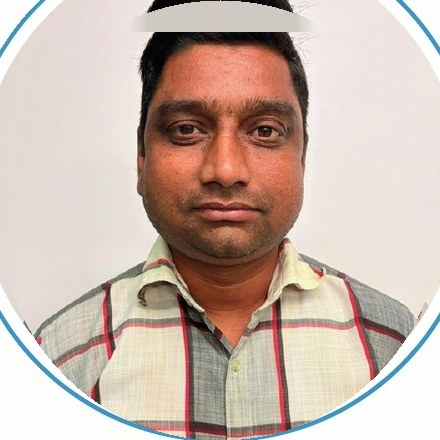
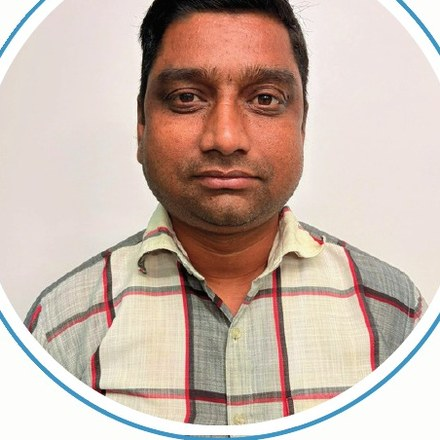
Rebuild Our Team from supplied section: 17-member roster, new headshots, Future Dreams trio moved to /future-dreams

diff --git a/src/components/site/our-team.tsx b/src/components/site/our-team.tsx
@@ -1,4 +1,3 @@
-import { Reveal } from '@/components/site/reveal';
 import team01 from '@/assets/team/team-01.jpg';
 import team02 from '@/assets/team/team-02.jpg';
 import team03 from '@/assets/team/team-03.jpg';
@@ -11,7 +10,6 @@ import team09 from '@/assets/team/team-09.jpg';
 import team10 from '@/assets/team/team-10.jpg';
 import team11 from '@/assets/team/team-11.jpg';
 import team12 from '@/assets/team/team-12.jpg';
-import team13 from '@/assets/team/team-13.jpg';
 import team14 from '@/assets/team/team-14.jpg';
 import team15 from '@/assets/team/team-15.jpg';
 import team16 from '@/assets/team/team-16.jpg';
@@ -37,7 +35,6 @@ const TEAM: TeamMember[] = [
   { name: "Mriganka Sarkar", role: "Sr. Tax Assistant & Accounts", photo: team10 },
   { name: "Sanjoy Sarkar", role: "Office Executive — Systems", photo: team11 },
   { name: "Asim Datta", role: "GST & Accounts Head", photo: team12 },
-  { name: "Ayan Chaudhuri", role: "Cash Manager & Management", photo: team13 },
   { name: "Bibek Das", role: "Accountant", photo: team14 },
   { name: "Chandan Chakrabarty", role: "Accountant", photo: team15 },
   { name: "Anindya Chandra", role: "Office Management & Systems", photo: team16 },
@@ -47,25 +44,29 @@ const TEAM: TeamMember[] = [
 
 export function OurTeamSection() {
   return (
-    <section className="section">
-      <div className="wrap">
-        <ul className="team-grid">
-          {TEAM.map((member, i) => (
-            <li key={member.name} className="team-card">
-              <Reveal delay={(i % 3) * 110}>
-                <div className="team-photo">
-                  <img
-                    src={member.photo}
-                    alt={`Portrait of ${member.name}`}
-                    width={400}
-                    height={400}
-                    loading="lazy"
-                  />
-                </div>
-                <span aria-hidden="true" className="team-rule" />
-                <h2>{member.name}</h2>
-                <p className="team-role">{member.role}</p>
-              </Reveal>
+    <section className="bg-background py-20 sm:py-24">
+      <div className="mx-auto max-w-6xl px-6">
+        <ul className="grid grid-cols-1 gap-6 sm:grid-cols-2 lg:grid-cols-3">
+          {TEAM.map((member) => (
+            <li
+              key={member.name}
+              className="group flex flex-col items-center rounded-sm border border-border bg-card px-6 py-10 text-center transition duration-300 hover:border-primary/60 hover:shadow-md"
+            >
+              <div className="relative size-40 shrink-0 overflow-hidden rounded-full ring-1 ring-secondary transition duration-300 group-hover:ring-2 group-hover:ring-primary sm:size-44">
+                <img
+                  src={member.photo}
+                  alt={`Portrait of ${member.name}`}
+                  loading="lazy"
+                  className="size-full object-cover"
+                />
+              </div>
+              <span aria-hidden="true" className="mt-6 h-px w-8 bg-primary/70" />
+              <h2 className="mt-4 font-serif text-xl font-bold text-foreground">
+                {member.name}
+              </h2>
+              <p className="mt-2 text-[11px] font-medium uppercase tracking-[0.18em] text-muted-foreground">
+                {member.role}
+              </p>
             </li>
           ))}
         </ul>

diff --git a/src/components/site/fd-team.tsx b/src/components/site/fd-team.tsx
@@ -1,18 +1,6 @@
-import team201 from "@/assets/team2/team2-01.jpg";
-import team202 from "@/assets/team2/team2-02.jpg";
-import team203 from "@/assets/team2/team2-03.jpg";
-
-/*
- * Our Team (second roster) — drop-in section for the Arindam Maitra
- * Tax Consultancy site. Same tokens as our-team.tsx (site's stylesheet):
- *   --font-serif   "Playfair Display"
- *   --font-sans    "Inter"
- *   --foreground   oklch(23.5% .045 250)   navy ink
- *   --primary      oklch(72.1% .1 81)      gold accent
- *   --secondary    oklch(94.5% .042 226)   light blue tint
- *   --border       oklch(90% .024 230)
- *   --muted-foreground oklch(47% .03 250)
- */
+import team201 from '@/assets/team2/team2-01.jpg';
+import team202 from '@/assets/team2/team2-02.jpg';
+import team203 from '@/assets/team2/team2-03.jpg';
 
 interface TeamMember {
   name: string;
@@ -26,11 +14,10 @@ const TEAM: TeamMember[] = [
   { name: "Biprodip Das", role: "Office Executive", photo: team203 },
 ];
 
-export function OurTeamSection2() {
+export function FutureDreamsTeam() {
   return (
     <section className="bg-background py-20 sm:py-24">
       <div className="mx-auto max-w-6xl px-6">
-        {/* Section header — same eyebrow treatment as the site's hero/services */}
         <div className="mx-auto max-w-2xl text-center">
           <div className="flex items-center justify-center gap-3">
             <span aria-hidden="true" className="h-px w-10 bg-primary" />
@@ -40,14 +27,12 @@ export function OurTeamSection2() {
             <span aria-hidden="true" className="h-px w-10 bg-primary" />
           </div>
           <h2 className="mt-4 font-serif text-4xl font-bold tracking-tight text-foreground sm:text-5xl">
-            The people behind <em className="text-primary">the numbers</em>
+            The people behind <em className="text-primary">Future Dreams</em>
           </h2>
           <p className="mt-4 text-sm text-muted-foreground">
-            Arindam Maitra Tax Consultancy — Tax &middot; Compliance &middot; Advisory
+            Financial &amp; Marketing Consultancy — Loans &middot; Taxation &middot; Investments
           </p>
         </div>
-
-        {/* Team grid */}
         <ul className="mt-14 grid grid-cols-1 gap-6 sm:grid-cols-2 lg:grid-cols-3">
           {TEAM.map((member) => (
             <li

diff --git a/src/styles.css b/src/styles.css
@@ -215,18 +215,6 @@ h1,h2,h3 { font-family:var(--font-serif); font-weight:400; }
 .reveal.revealed .photo-band-quote { animation:rise .9s .15s ease both; }
 /* Page-banner gold rule draw */
 .banner-rule { display:block; width:0; height:1px; background:var(--primary); margin:20px 0 0; animation:line-draw 1.1s .25s ease forwards; }
-/* Team page */
-.team-grid { display:grid; grid-template-columns:repeat(3,1fr); gap:24px; margin:0; padding:0; list-style:none; }
-.team-card { border:1px solid var(--border); background:var(--card); padding:40px 24px; text-align:center; transition:border-color .35s ease,transform .35s ease; }
-.team-card:hover { border-color:color-mix(in oklab,var(--primary) 60%,var(--border)); transform:translateY(-3px); }
-.team-photo { width:176px; height:176px; margin-inline:auto; border-radius:50%; overflow:hidden; box-shadow:0 0 0 1px var(--secondary); transition:box-shadow .3s ease; }
-.team-card:hover .team-photo { box-shadow:0 0 0 2px var(--primary); }
-.team-photo img { display:block; width:100%; height:100%; object-fit:cover; }
-.team-rule { display:block; width:32px; height:1px; background:color-mix(in oklab,var(--primary) 70%,transparent); margin:24px auto 0; }
-.team-card h2 { font-size:21px; margin:16px 0 0; }
-.team-role { font-size:11px; font-weight:500; text-transform:uppercase; letter-spacing:.18em; color:var(--muted-foreground); margin:8px 0 0; }
-@media(max-width:1000px) { .team-grid { grid-template-columns:repeat(2,1fr); } }
-@media(max-width:760px) { .team-grid { grid-template-columns:1fr; gap:18px; } .team-card { padding:32px 20px; } .team-photo { width:160px; height:160px; } }
 /* Detail & hover motion */
 .reveal:has(> .editorial-photo) { overflow:hidden; }
 .editorial-photo { transition:transform 1.4s ease; }

diff --git a/src/routes/future-dreams.tsx b/src/routes/future-dreams.tsx
@@ -2,6 +2,7 @@ import { createFileRoute, Link } from '@tanstack/react-router';
 import { ArrowUpRight, Mail, MapPin, Phone, Smartphone } from 'lucide-react';
 import { PageBanner } from '@/components/site/layout';
 import { Reveal } from '@/components/site/reveal';
+import { FutureDreamsTeam } from '@/components/site/fd-team';
 import { Button } from '@/components/ui/button';
 import { business, fdServices, pageHead, sisterVenture } from '@/lib/site';
 import loansPhoto from '@/assets/fd-loans.jpg';
@@ -43,6 +44,7 @@ function FutureDreams(){return <main className="fd-scope">
     </Reveal></div>
     <Reveal delay={120}><img src={fdPhotos[i]} alt={fdAlt[i]} width={1600} height={1072} loading="lazy" className="editorial-photo"/></Reveal>
   </section>)}
+  <FutureDreamsTeam/>
   <section className="section faq-band"><div className="wrap"><Reveal>
     <div className="eyebrow">Working together</div>
     <h2 className="section-heading">Three practices. One roof.</h2>
